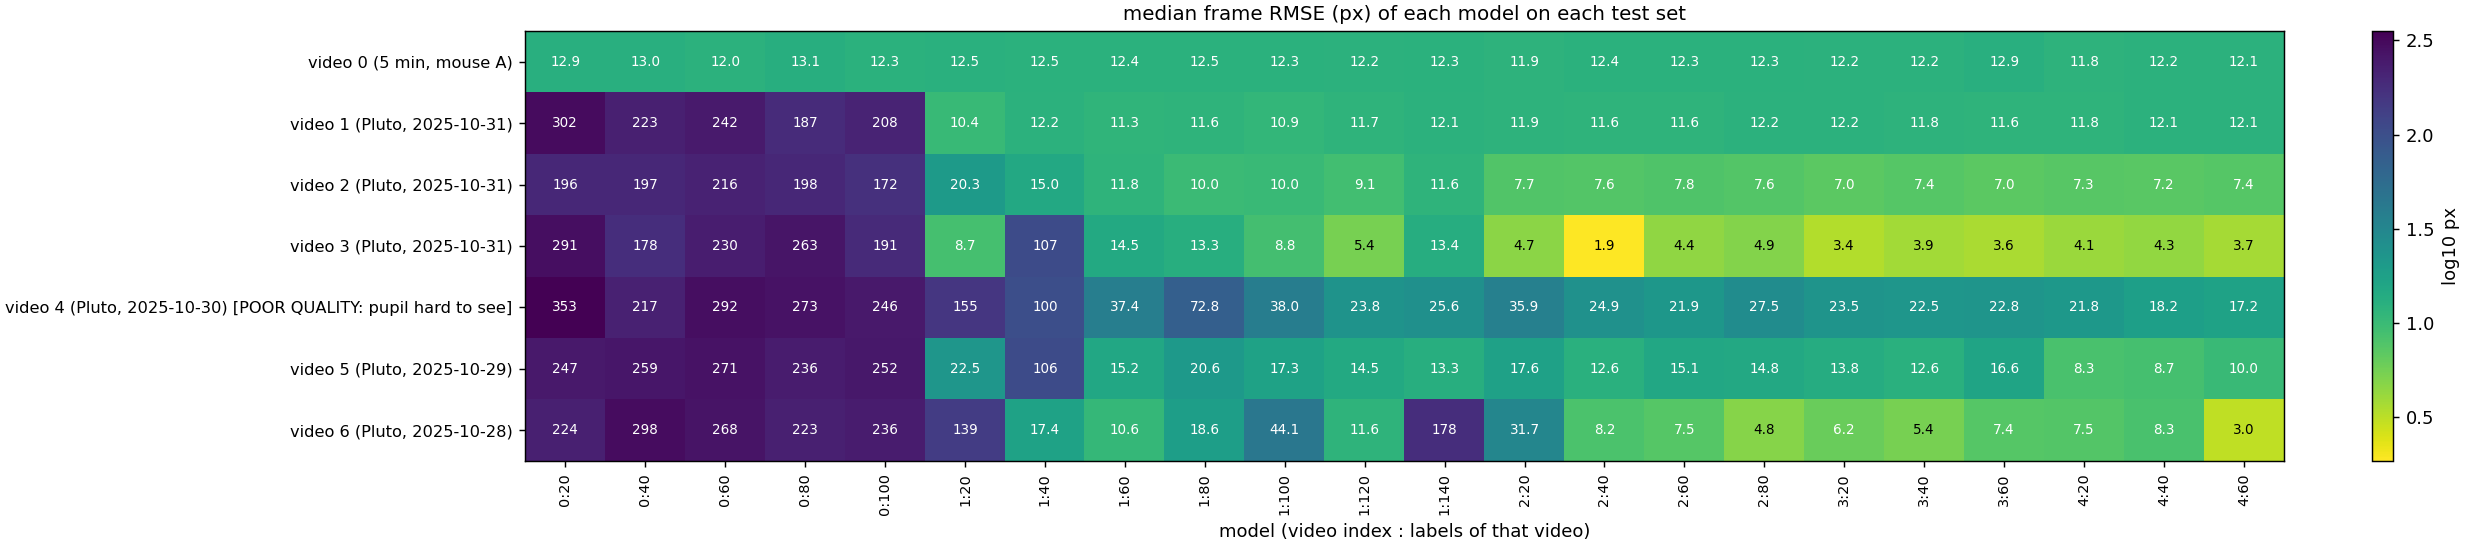
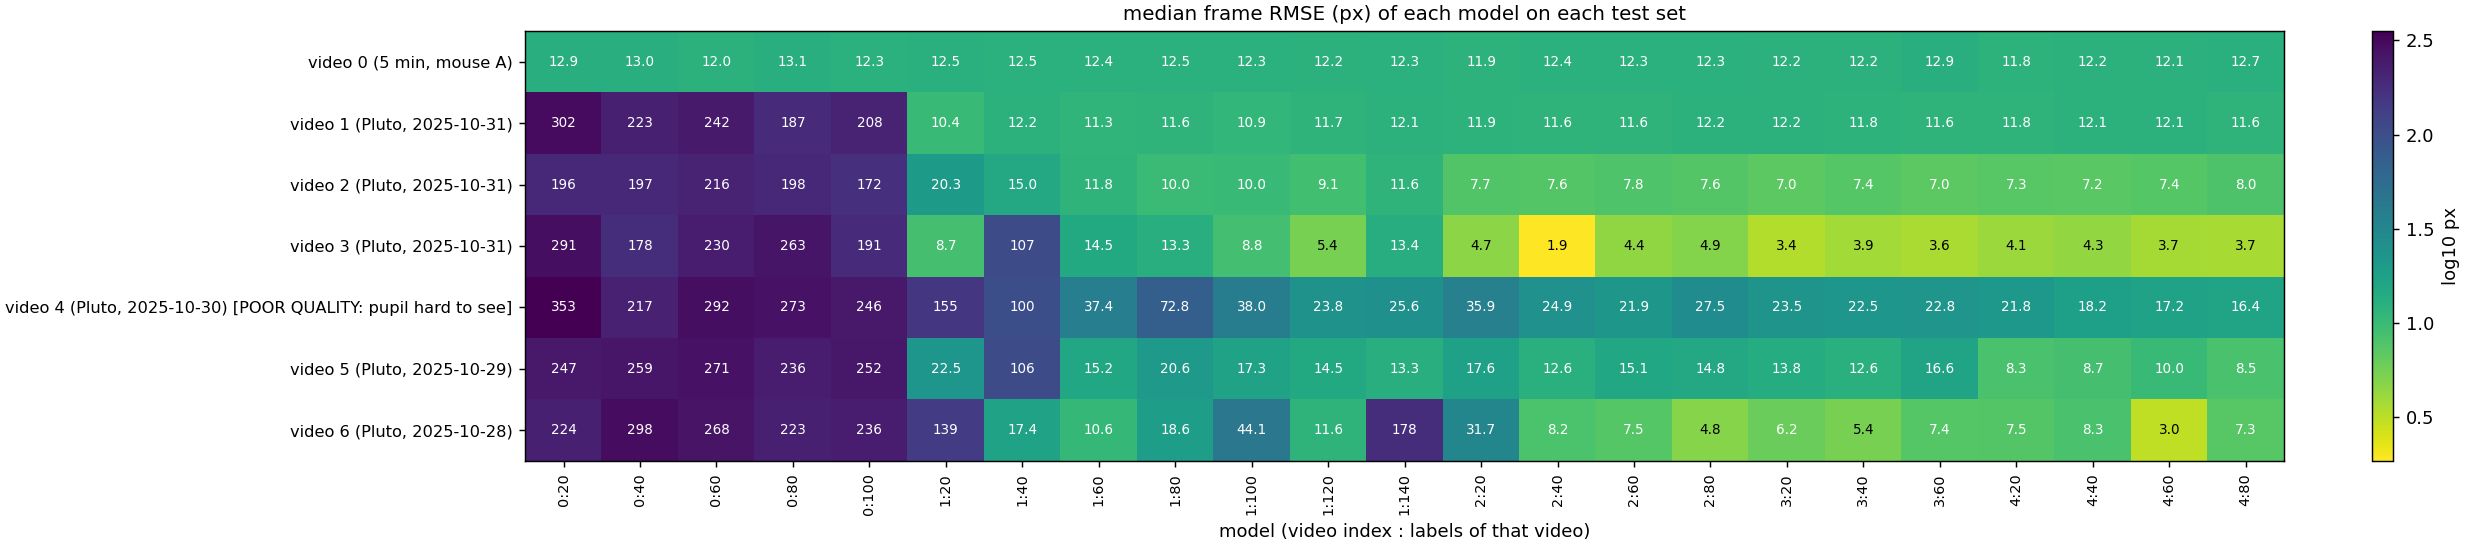
Video 4: batch05 selected (7,725 pool frames flagged after step 4); model 514 back-tested on all test sets

diff --git a/README.md b/README.md
@@ -8,14 +8,14 @@ how many human labels are needed, and how few frames must a person correct, befo
 Zhiheng Li (University of Minnesota), with Kaiwen Sheng (Stanford). Raw videos, frames, labels, model weights and
 per-frame predictions stay local; git carries code, documentation and audited aggregate results.
 
-## Status (last updated 2026-09-25 00:45 CDT)
+## Status (last updated 2026-09-25 02:05 CDT)
 
 | what | state |
 |---|---|
 | Label standard | era 3 (since 2026-09-20): the pupil is an **ellipse**; its four points are the ellipse endpoints, including the part hidden under the lid |
 | Recipe (frozen) | ResNet-50, batch 2, trained from scratch, 120 epochs, LR drops at 96 / 114; headline = final snapshot, median per-frame RMSE over the 8 keypoints on 50 frozen test frames |
 | Videos done | video 0 (mouse A, 5 min), videos 1-3 (mouse B "Pluto", 2025-10-31) |
-| In progress | **video 4** (Pluto, 2025-10-30, poor image quality): 80 labels = 16.40 px, still improving (4.4% over 60 labels); batch 5 (100 labels) is selected next |
+| In progress | **video 4** (Pluto, 2025-10-30, poor image quality): 80 labels = 16.40 px, still improving (4.4% over 60 labels); batch 5 (100 labels) selected, waiting for labeling |
 | Test-set only | video 5 (2025-10-29) and video 6 (2025-10-28): frozen test sets scored by every model so far |
 
 ## Main results so far (era 3, `new_pupil_top_video_scaling/`)

diff --git a/new_pupil_top_video_scaling/4_20251030_Pluto_spont_1/results/README.md b/new_pupil_top_video_scaling/4_20251030_Pluto_spont_1/results/README.md
@@ -16,7 +16,7 @@ k-means, later batches by jump rule + k-means. The video copy is `4_20251030_Plu
 | 20 | 21.75 px | 44.0 | 6% | 87% | 8,548 (15.0%) |
 | 40 | 18.19 px | 35.3 | 4% | 80% | 10,536 (18.4%) |
 | 60 | 17.16 px | 32.1 | 2% | 77% | 7,537 (13.2%) |
-| 80 | 16.40 px | 34.1 | 0% | 83% | (pending: step-4 whole-video prediction) |
+| 80 | 16.40 px | 34.1 | 0% | 83% | 7,725 (13.5%) |
 
 Training set of step 1 (shuffle 511): 100 labels of video 0 + 100 of video 1 + 60 of video 2 + 60 of video 3 +
 20 of this video (340 frames); validation = the 20 val frames of this video.
